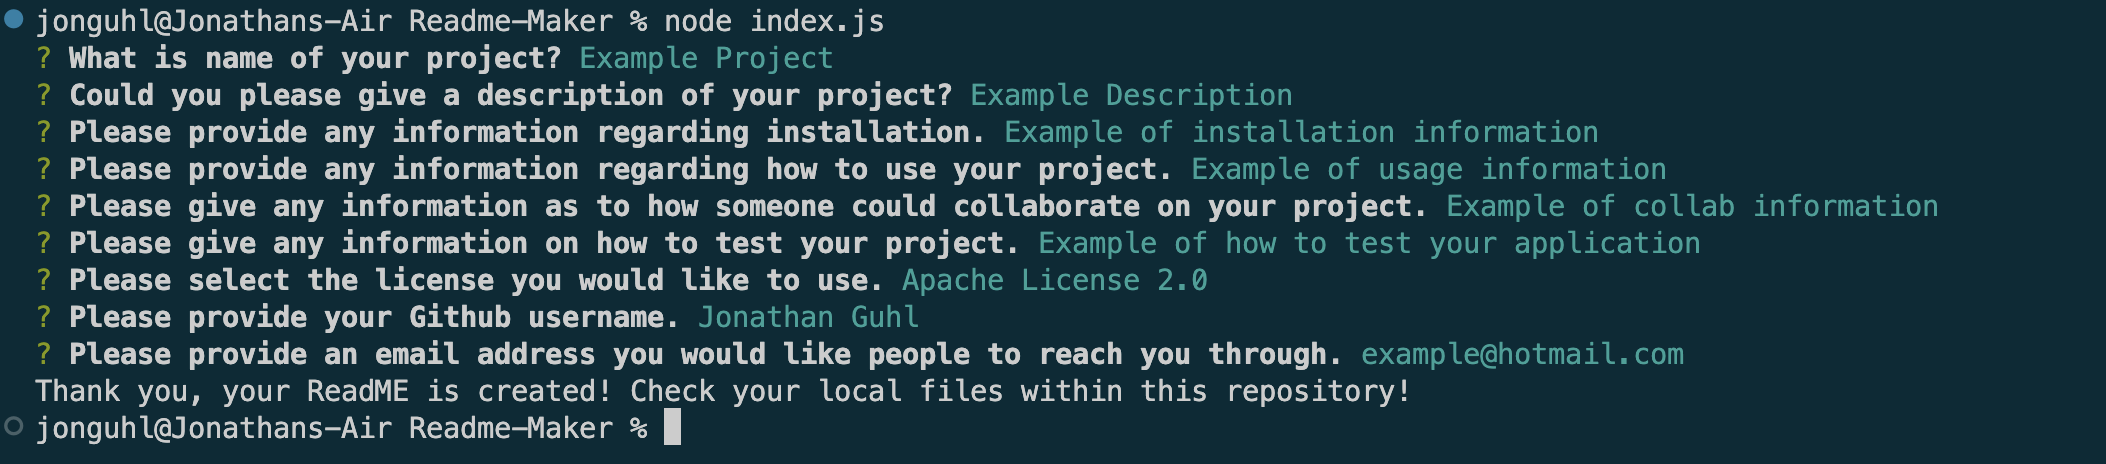
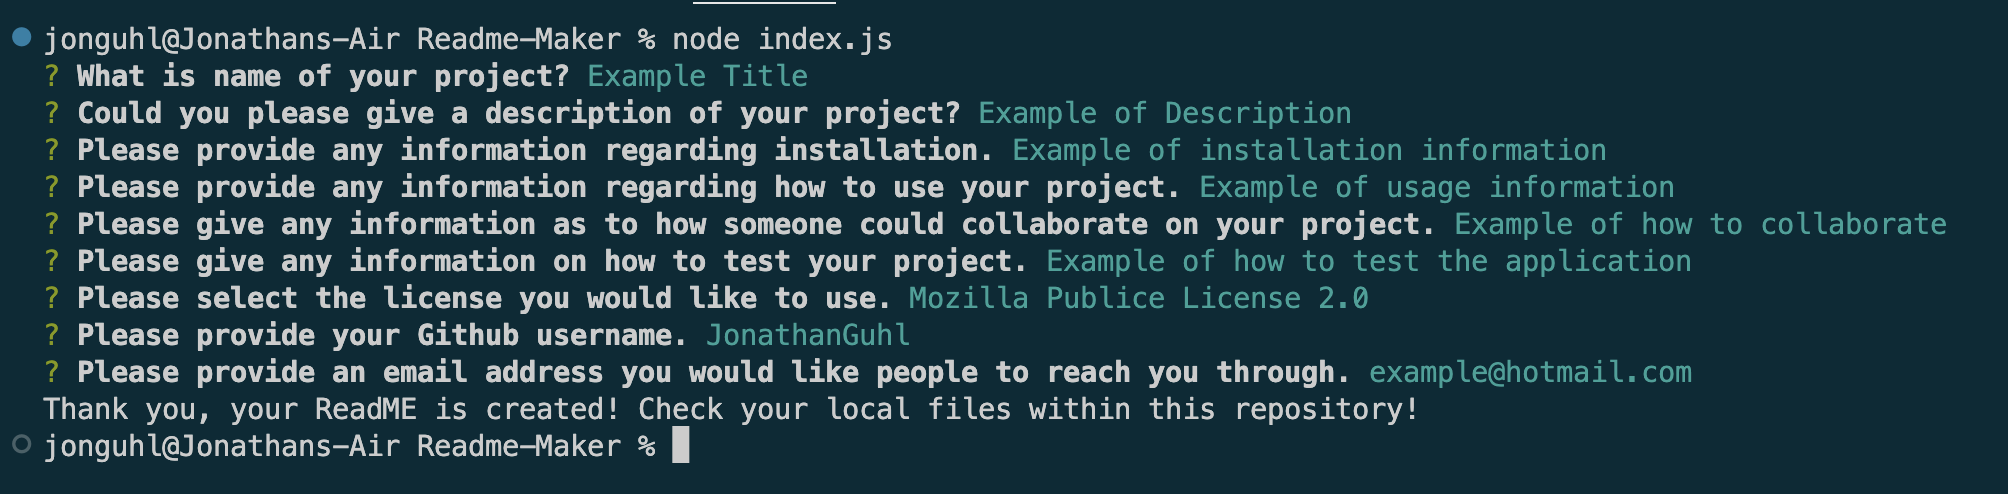
Updating images to match final code, just need to add video link now

Changed region(s): [[0.0, 0.0, 0.988, 0.9655]]

diff --git a/index.js b/index.js
@@ -119,9 +119,9 @@ inquirer
     
  - [Installation](#installation)
  - [Usage](#usage)
- - [How To Test](#test)
- - [How To Contribute](#collab)
- - [Contact Info](#contactInfo)
+ - [Testing](#testing)
+ - [Collaborations](#collaborations)
+ - [Questions](#questions)
 
 ## Installation
 
@@ -131,15 +131,15 @@ inquirer
 
 - ${data.usage}
 
-## How To Test My Project
+## Testing 
 
 - ${data.test}
 
-## How To Contribute
+## Collaborations
 
 - ${data.collab}
 
-## Contact Info 
+## Questions 
 
 - If you would like to visit my Github you can click here https://github.com/${data.github} and if you have further questions you can reach me at ${data.email}
 `

diff --git a/userReadME.md b/userReadME.md
@@ -1,16 +1,16 @@
-# Example Project  ![license badge](https://img.shields.io/badge/License-Apache%202.0-blue.svg)
+# Example Title  ![license badge](https://img.shields.io/badge/License-MPL%202.0-brightgreen.svg)
 
 ## Description
 
- - Example Description
+ - Example of Description
 
 ## Table of Contents
     
  - [Installation](#installation)
  - [Usage](#usage)
- - [How To Test](#test)
- - [How To Contribute](#collab)
- - [Contact Info](#contactInfo)
+ - [Testing](#testing)
+ - [Collaborations](#collaborations)
+ - [Questions](#questions)
 
 ## Installation
 
@@ -20,14 +20,14 @@
 
 - Example of usage information
 
-## How To Test My Project
+## Testing 
 
-- Example of how to test your application
+- Example of how to test the application
 
-## How To Contribute
+## Collaborations
 
-- Example of collab information
+- Example of how to collaborate
 
-## Contact Info 
+## Questions 
 
-- If you would like to visit my Github you can click here https://github.com/Jonathan Guhl and if you have further questions you can reach me at example@hotmail.com
+- If you would like to visit my Github you can click here https://github.com/JonathanGuhl and if you have further questions you can reach me at example@hotmail.com

diff --git a/README.md b/README.md
@@ -19,5 +19,5 @@
  ![My Image](assets/terminal.png)
 - After you have successfully answered all of the questions, your ReadME file will be created in your cloned repository under the name 'userReadMe.md'
 - Your new ReadME will look like so 
- ![My Image](assets/readme.png)
+ ![My Image](assets/generatedREADME.png)
 - After that you're free to copy or edit the ReadME and use it where you see necessary!
